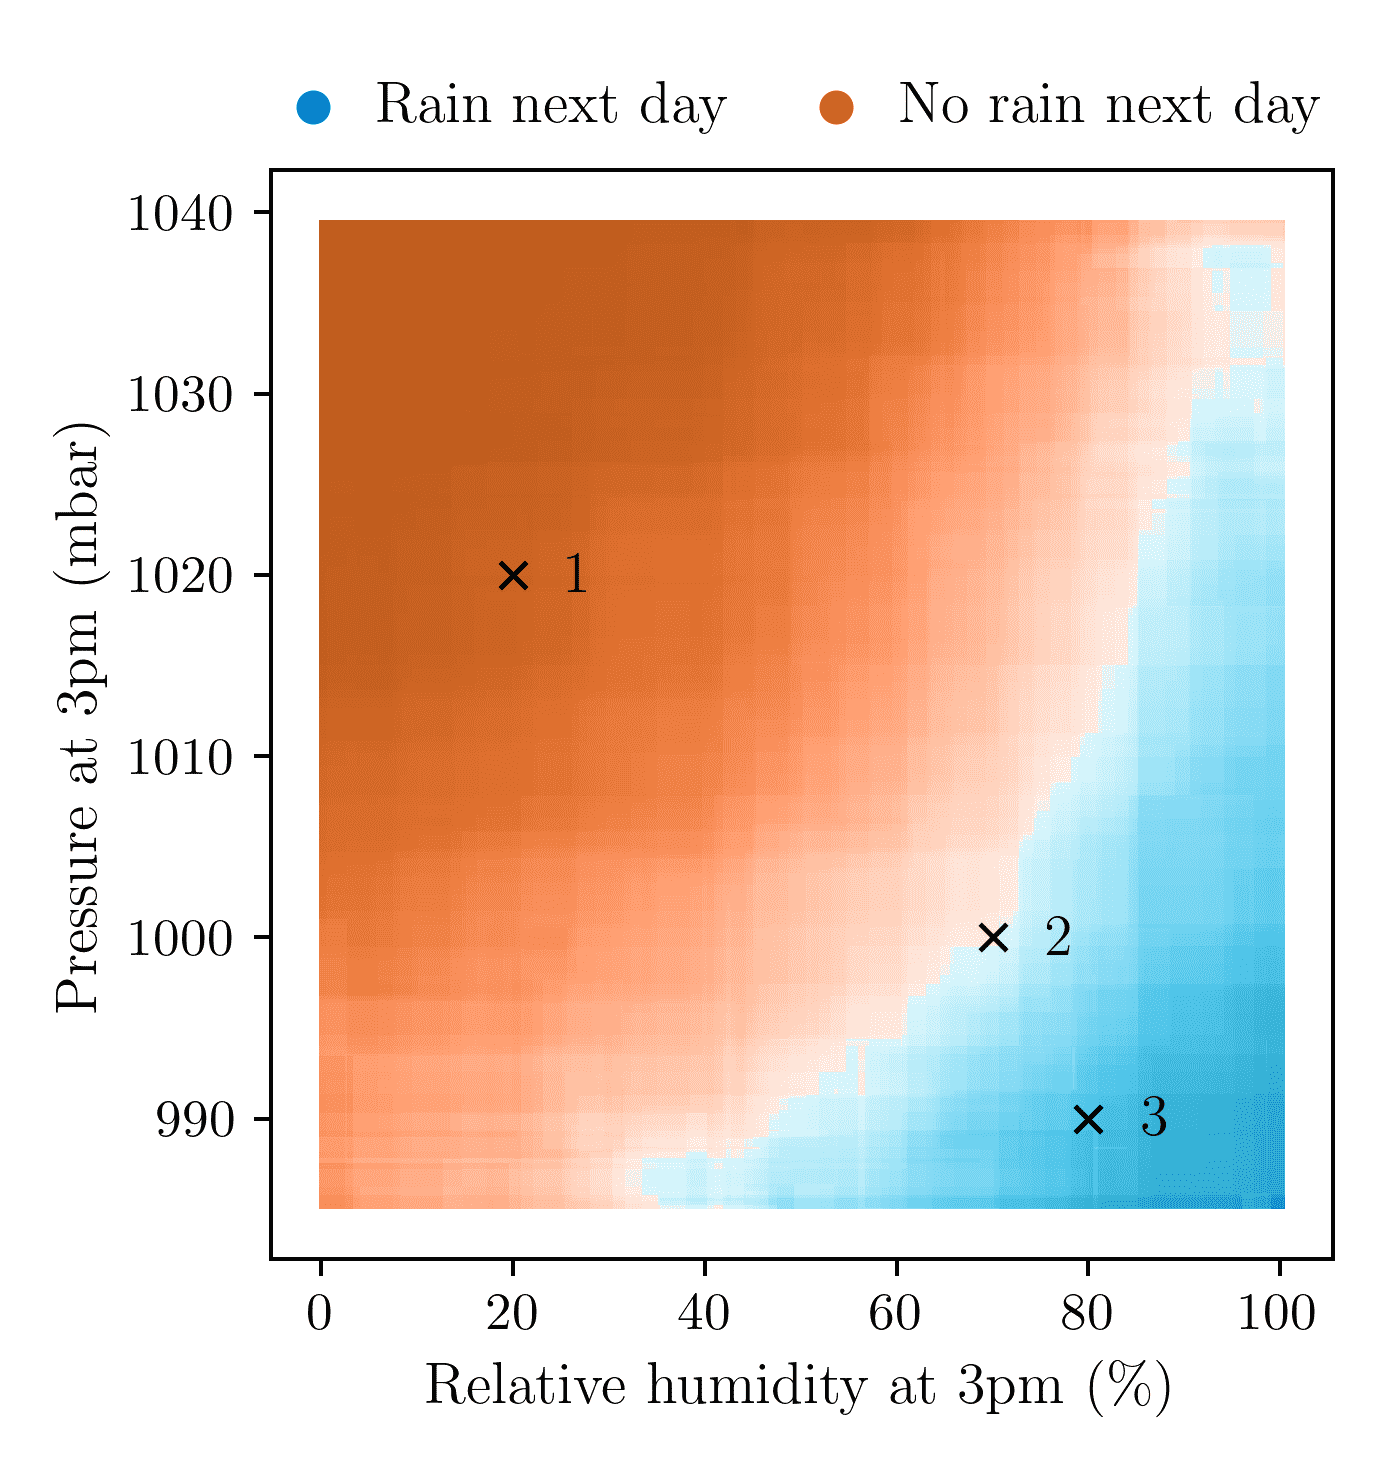
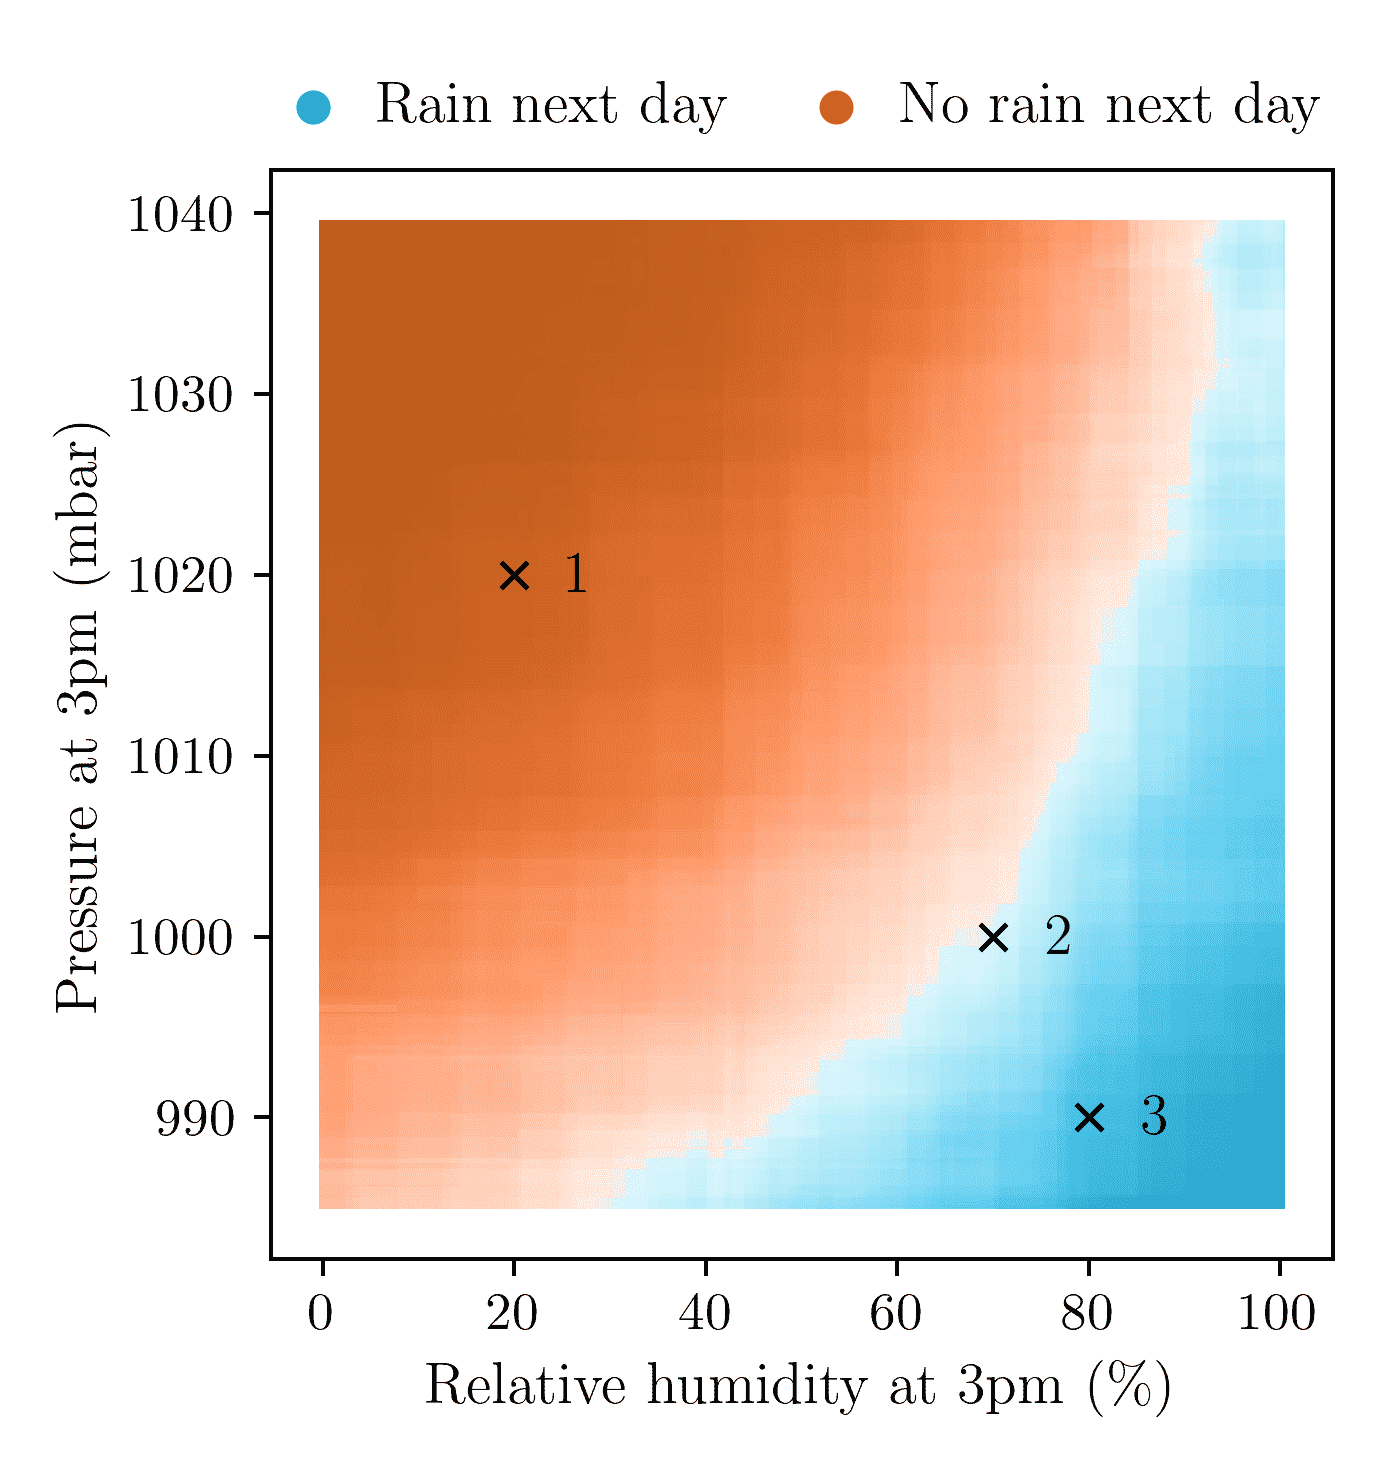
new plots

diff --git a/mondrian.tex b/mondrian.tex
@@ -152,9 +152,6 @@ specifically, we use our debiasing approach to construct valid inference
 procedures based on robust bias correction
 \citep{calonico2018jasa,calonico2022bernoulli}.
 
-\TODO{discuss weather}
-\TODO{discuss new tech results in appendix}
-
 \subsection{Organization}
 
 This chapter is structured as follows. In Section~\ref{sec:mondrian_setup} we
@@ -196,9 +193,16 @@ parameter using polynomial estimation, alongside other practical suggestions.
 We also give advice on choosing the number of trees, and other parameters
 associated with the debiasing procedure.
 
+In Section~\ref{sec:mondrian_weather} we present an illustrative example
+application of our proposed methodology for estimation and inference in the
+setting of weather forecasting in Australia. We demonstrate the use of
+generalized cross-validation for parameter selection, as well as the
+construction of point estimates and confidence intervals.
+
 Concluding remarks are given in Section~\ref{sec:mondrian_conclusion}, while
 Appendix~\ref{app:mondrian} contains all the mathematical proofs of our
-theoretical results.
+theoretical contributions, along with some other technical results which
+may be of interest.
 
 \subsection{Notation}
 
@@ -1694,6 +1698,7 @@ $a_r = (1+\gamma)^r$ or $a_r = 1 + \gamma r$ for some $\gamma > 0$. We suggest
 for concreteness taking $a_r = 1.05^r$.
 
 \section{Illustrative example: weather forecasting}%
+\label{sec:mondrian_weather}
 
 To demonstrate our methodology for estimation and inference with Mondrian random
 forests, we consider a simple application
@@ -1720,7 +1725,7 @@ locations across Australia, with a total of $n = 125\,927$ samples.
   \end{subfigure}
   \caption{Fitting Mondrian random forests to the Australian weather data.
     Left: with $B=2$ trees, individual cells are clearly visible and the step
-    function persists. Right: with $B=30$ trees, the estimate is much smoother
+    function persists. Right: with $B=40$ trees, the estimate is much smoother
     as the individual tree estimates average out.
   Three design points are identified for further analysis.}
   \label{fig:weather_forest}
@@ -1753,7 +1758,7 @@ Section~\ref{sec:mondrian_clt}, with the piecewise constant estimator providing
 a poor approximation for the smooth true regression function.
 
 Figure~\ref{fig:weather_forest} then
-demonstrates the effect of increasing the forest size $B$.
+demonstrates the effect of increasing the forest size from $B=2$ to $B=40$.
 As more trees are included in the Mondrian random forest,
 the regression estimate $\hat \mu(x)$ becomes smoother and therefore also
 enjoys improved bias properties as shown in
@@ -1774,7 +1779,8 @@ for the numerical results.
   \end{subfigure}
   \caption{Left: mean squared error and generalized cross-validation scores
     for Mondrian random forests with the Australian weather data.
-  Three design points are identified for further analysis.}
+    Right: a debiased Mondrian random forest with $B=20$, giving $40$ trees 
+  in total. Three design points are identified for further analysis.}
   \label{fig:weather_gcv}
 \end{figure}
 
@@ -1786,8 +1792,8 @@ as $\lambda$ increases and the model
 overfits, but the GCV score is minimized at a value which appropriately
 balances the bias and variance. We then fit a debiased Mondrian forest
 with bias correction order $J = 1$ as described in
-Section~\ref{sec:debiased}, using $B=15$ trees with each debiasing level
-for a total of $30$ trees.
+Section~\ref{sec:debiased}, using $B=20$ trees at each debiasing level
+for a total of $40$ trees.
 We continue to use the same lifetime parameter
 $\lambda$ selected through GCV without debiasing, following the approach
 recommended in Section~\ref{sec:lifetime_selection}.
@@ -1798,9 +1804,10 @@ and the undersmoothing enacted by the lifetime selection method.
 
 Table~\ref{tab:weather_ci} presents numerical results for estimation and
 inference at these specified design points. We first give the outcomes without
-debiasing, using a Mondrian random forest with $B=200$ trees and $\lambda = 5$
+debiasing, using a Mondrian random forest with $B = 400$ trees and $\lambda = 5$
 selected by GCV. We then show the results with a first-order ($J=1$) debiased
-Mondrian random forest using $B = 200$ (so a total of $400$ trees) and the same
+Mondrian random forest using $B = 200$ (so again a total of $400$ trees)
+and the same
 value of $\lambda = 5$. The predicted chance of rain $\hat\mu(x)$ is found to
 vary substantially across different covariate values, and the resulting
 confidence intervals (CI) are generally narrow due to the large sample size and
@@ -1808,8 +1815,6 @@ moderate lifetime parameter. Th forest with debiasing exhibits more extreme
 predictions away from $50\%$ and wider confidence intervals in general, in line
 with the illustration in Figure~\ref{fig:weather_gcv}.
 
-\TODO{get GCV curve smoother, check all num trees in text}
-\TODO{can we do even more trees?}
 \TODO{check this whole section carefully}
 
 \vspace{4mm}
@@ -1828,23 +1833,24 @@ with the illustration in Figure~\ref{fig:weather_gcv}.
     & $\hat\mu(x)$ & 95\% CI \\
     \hline
     $1$ & $20\%$ & $1020\,\textrm{mbar}$ &
-    $\phantom{0}4.3\%$ &
-    $4.1\%$ -- $4.6\%$ &
-    $\phantom{0}2.4\%$ &
-    $2.0\%$ -- $2.8\%$ \\
+    $\phantom{0}4.2\%$ &
+    $3.9\%$ -- $4.5\%$ &
+    $\phantom{0}2.0\%$ &
+    $1.6\%$ -- $2.4\%$ \\
     $2$ & $70\%$ & $1000\,\textrm{mbar}$ &
-    $53.0\%$ &
-    $52.0\%$ -- $54.0\%$ &
-    $62.2\%$ &
-    $60.1\%$ -- $64.2\%$ \\
-    $3$ & $80\%$ & $\phantom{0}990\,\textrm{mbar}$ &
-    $77.5\%$ &
-    $74.4\%$ -- $80.6\%$ &
-    $92.0\%$ &
-    $85.6\%$ -- $98.5\%$ \\
+    $52.6\%$ &
+    $51.7\%$ -- $53.6\%$ &
+    $59.8\%$ &
+    $57.8\%$ -- $61.9\%$ \\
+    $3$ & $80\%$ & $\phantom{1}990\,\textrm{mbar}$ &
+    $78.1\%$ &
+    $75.0\%$ -- $81.2\%$ &
+    $93.2\%$ &
+    $86.7\%$ -- $99.6\%$ \\
     \hline
   \end{tabular}
-  \caption{Numerical results for the Australian weather data.}
+  \caption{Numerical results for the Australian weather data
+  at three specified design points.}
   \label{tab:weather_ci}
 \end{table}
 
